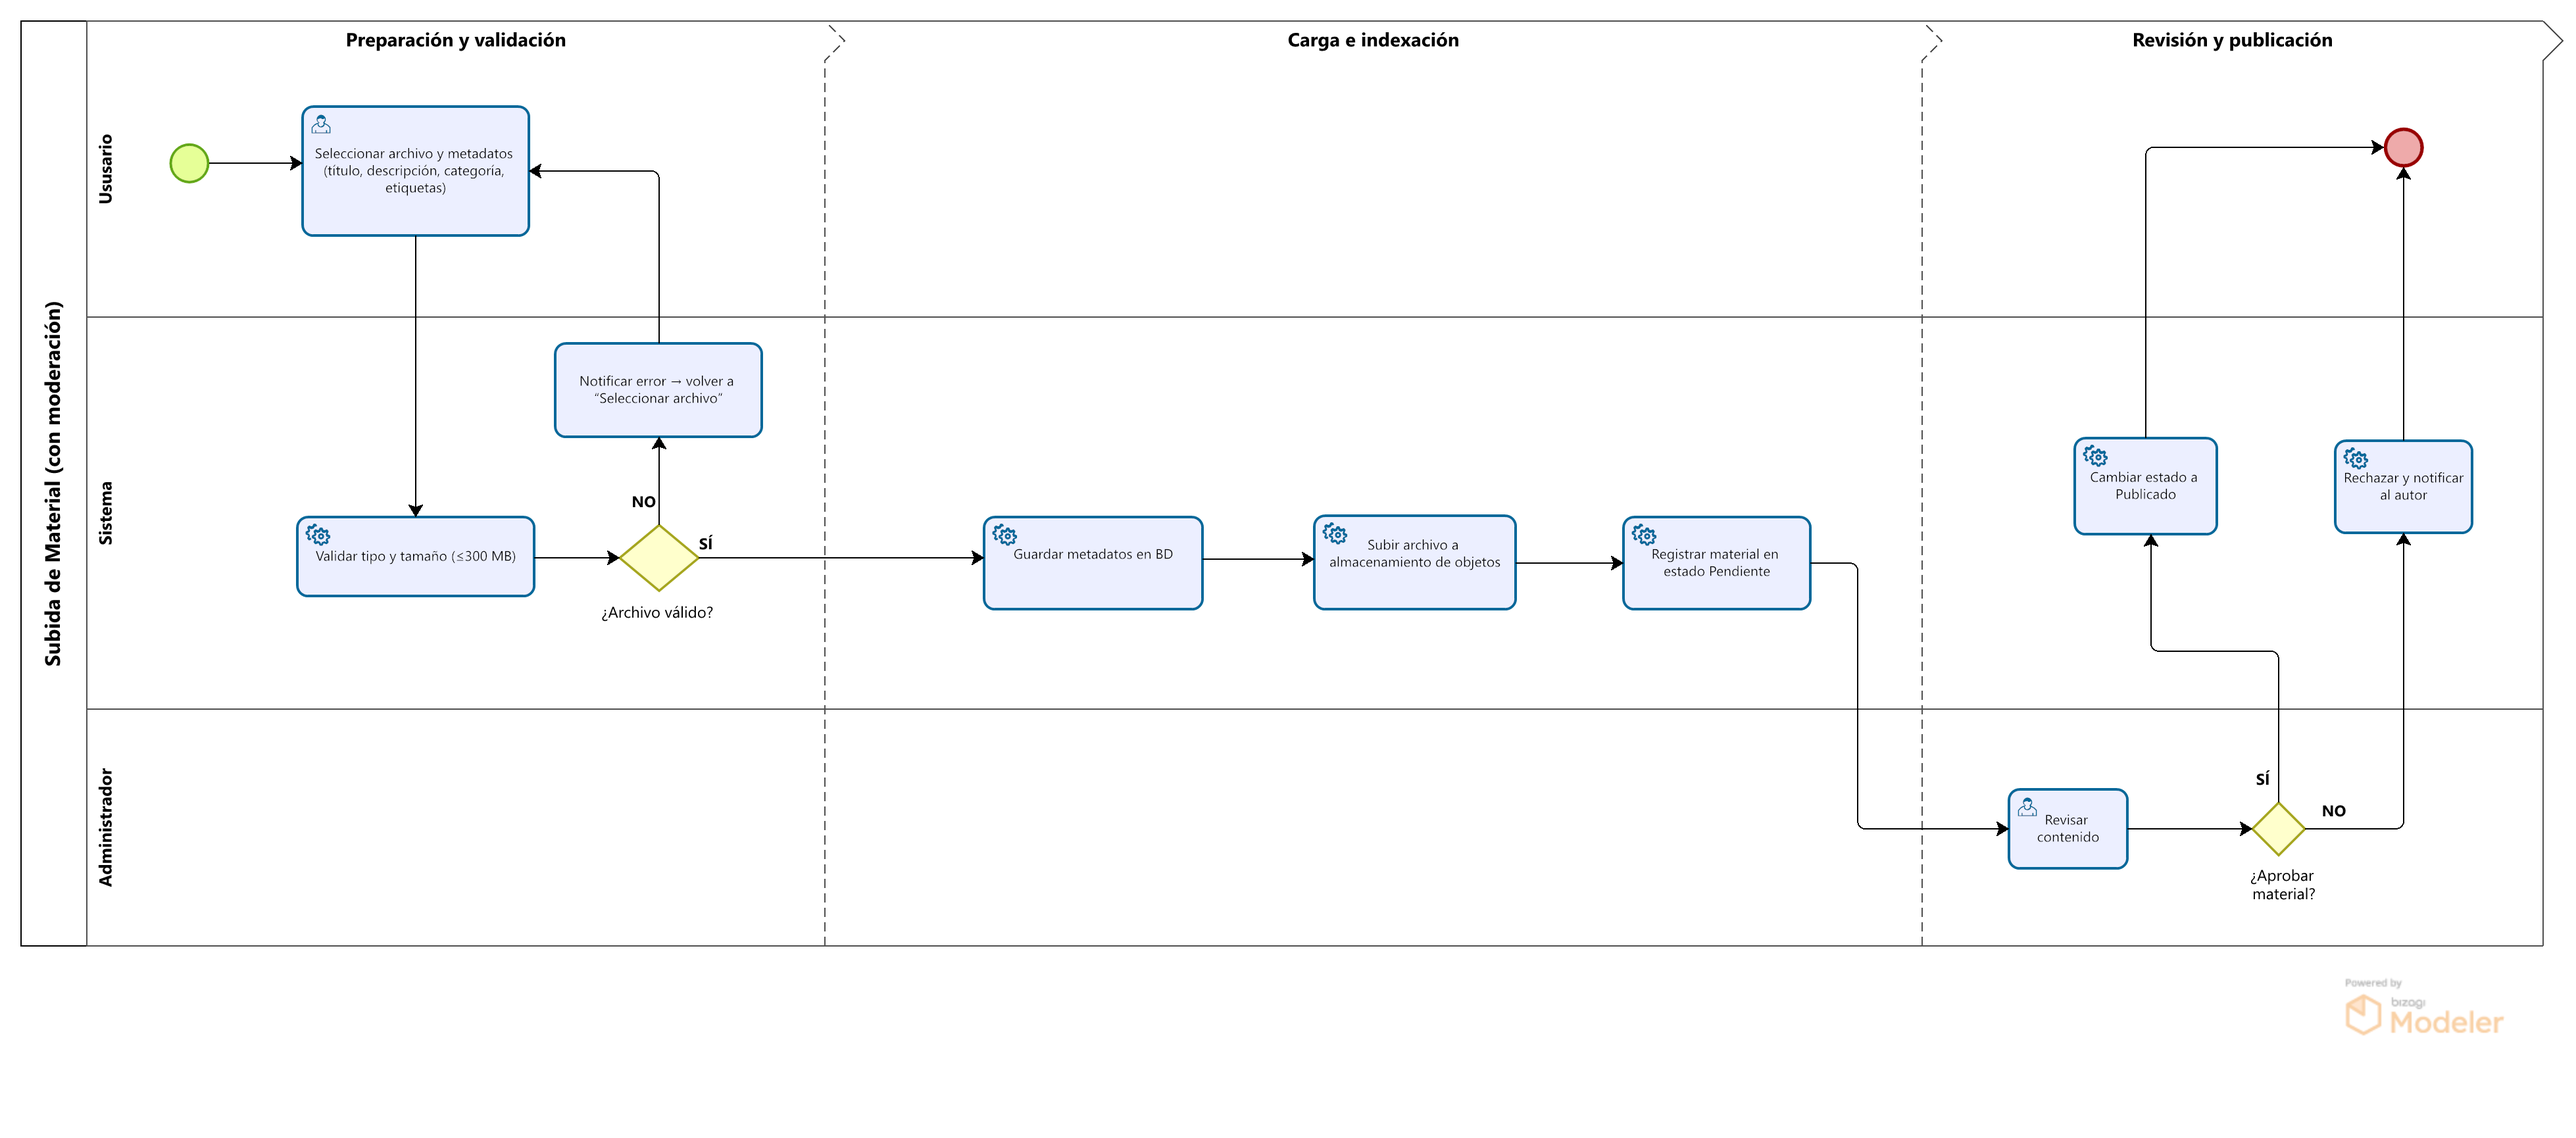
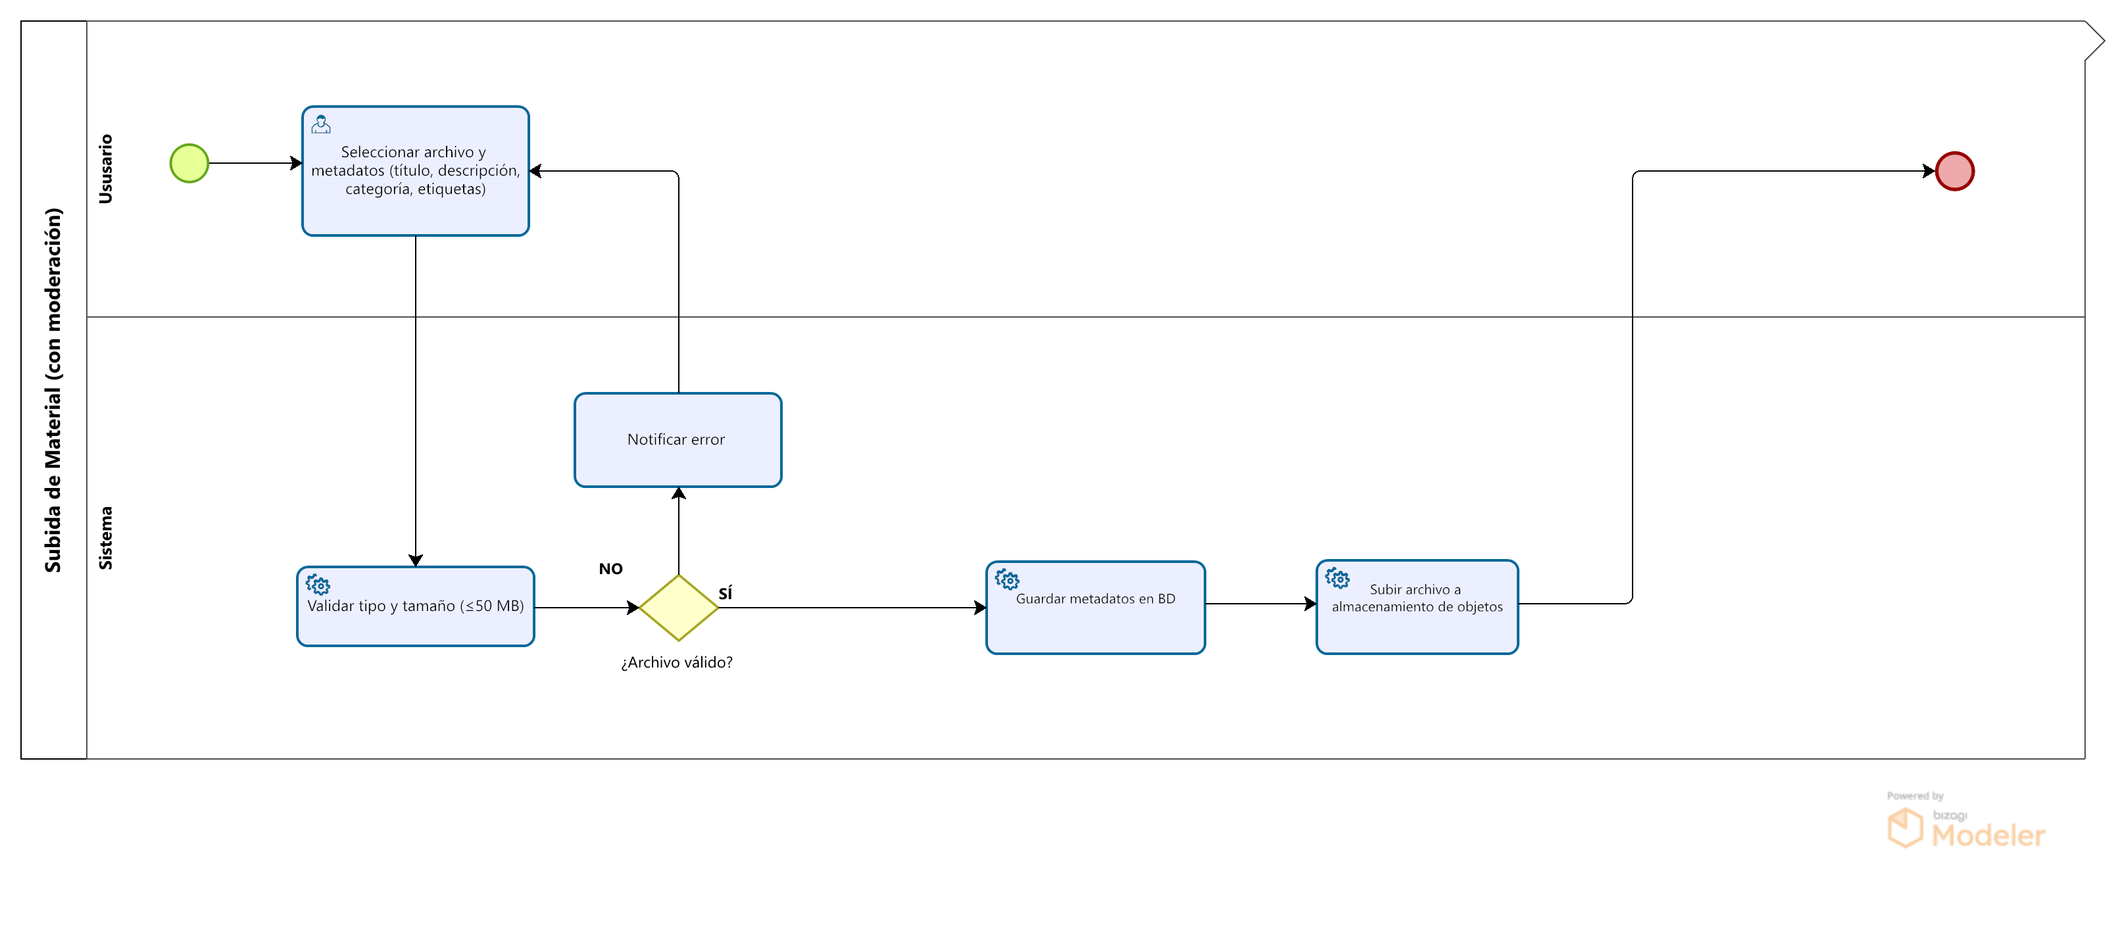
upload c/u + procesos

diff --git a/docs/guide02/fase03/casos-uso.md b/docs/guide02/fase03/casos-uso.md
@@ -27,7 +27,6 @@
 **Reglas de Negocio:**
 - RN-001: Solo se aceptan correos con dominio @unmsm.edu.pe
 - RN-002: Cada correo solo puede registrar una cuenta
-- RN-003: La verificación debe completarse en máximo 24 horas
 
 ---
 
@@ -47,9 +46,9 @@
 6. El sistema almacena el material y notifica éxito
 
 **Reglas de Negocio:**
-- RN-004: Formatos permitidos: PDF, PPTX, DOCX, XLSX, MP4
-- RN-005: Tamaño máximo por archivo: 300 MB
-- RN-006: Metadatos obligatorios: título, categoría, descripción
+- RN-003: Formatos permitidos: PDF, PPTX, DOCX, XLSX, MP4, XLS
+- RN-004: Tamaño máximo por archivo: 50 MB
+- RN-005: Metadatos obligatorios: título, categoría, descripción, carrera, semestre
 
 ---
 
@@ -69,56 +68,11 @@
 6. El archivo se descarga al dispositivo
 
 **Reglas de Negocio:**
-- RN-007: Usuarios no autenticados solo ven vista previa limitada
-- RN-008: Máximo 20 descargas por hora por usuario
-- RN-009: Se registra estadística de descargas por material
-
----
-
-### **Caso de Uso: Administrar Biblioteca Personal**
-
-**ID:** CU-004  
-**Actor:** Usuario registrado  
-**Descripción:** Gestión de materiales guardados en la biblioteca personal del usuario  
-**Precondiciones:** Usuario autenticado  
-
-**Flujo Principal:**
-1. El usuario accede a "Mi Biblioteca"
-2. Visualiza materiales guardados organizados
-3. Puede filtrar por categorías personales
-4. Puede eliminar materiales de la biblioteca
-5. Puede organizar en carpetas personalizadas
-6. El sistema guarda los cambios en tiempo real
-
-**Reglas de Negocio:**
-- RN-010: Límite de 500 materiales en biblioteca personal
-- RN-011: Los cambios se sincronizan automáticamente
-- RN-012: Se mantiene historial de materiales eliminados por 30 días
-
----
-
-### **Caso de Uso: Moderación de Contenido**
-
-**ID:** CU-005  
-**Actor:** Administrador  
-**Descripción:** Gestión y validación de contenidos subidos por usuarios  
-**Precondiciones:** Usuario con rol de administrador  
-
-**Flujo Principal:**
-1. El administrador accede al panel de moderación
-2. Revisa materiales reportados o pendientes
-3. Evalúa contenido según políticas
-4. Aprueba, rechaza o solicita modificaciones
-5. Notifica al usuario sobre la decisión
-6. Actualiza estado del material en el sistema
-
-**Reglas de Negocio:**
-- RN-013: Los materiales inapropiados se rechazan inmediatamente
-- RN-014: Los usuarios con 3 rechazos consecutivos son suspendidos
-- RN-015: Todo material debe revisarse en máximo 48 horas
+- RN-006: Se registra estadística de descargas por material
 
 ---
 
 > **Nota del Equipo ED06**: Los casos de uso documentados representan las interacciones fundamentales entre los usuarios y el sistema FisiConnect, asegurando que todos los requisitos funcionales identificados en la Guía 01 estén adecuadamente cubiertos en el diseño del sistema.
 
-*Equipo ED06 - FisiConnect*
+**Elaborado por:** Equipo ED06 - FisiConnect  
+**Fecha:** Noviembre 2025

diff --git a/docs/guide02/fase03/diagrama-procesos.md b/docs/guide02/fase03/diagrama-procesos.md
@@ -16,18 +16,19 @@ Proceso que gestiona el registro de nuevos usuarios en FisiConnect, incluyendo v
 **Descripción**:
 Proceso que especifica los pasos para la carga de nuevos materiales, incluyendo validación de formatos, metadatos obligatorios, revisión de contenido y publicación en la plataforma.
 
-### **Diagrama 03: Descarga de Materiales**
-![Proceso de Descarga de Materiales](diagrama-procesos/descarga-de-material.png)
-*Flujo de búsqueda, selección y descarga de recursos académicos*
+### **Diagrama 03: Registro + uso de la plataforma**
+![Proceso de interacción de Materiales](diagrama-procesos/registro&interaccion.png)
+*Flujo de registro, descarga y calificacion de material*
 
 **Descripción**:
-Proceso que detalla el flujo completo de búsqueda de materiales académicos, incluyendo filtros avanzados, visualización de detalles, verificación de permisos y descarga segura de archivos.
+Proceso que detalla el flujo completo registro, búsqueda de materiales académicos, incluyendo filtros avanzados, visualización de detalles, calificación de material y exploracion de recursos.
 
 ---
 
 > **Nota del Equipo ED06**: Los diagramas fueron desarrollados en Bizagi Modeler siguiendo el estándar BPMN 2.0, asegurando claridad y precisión en la representación de los procesos críticos de FisiConnect.
 
-*Equipo ED06 - FisiConnect*
+**Elaborado por:** Equipo ED06 - FisiConnect  
+**Fecha:** Noviembre 2025
 
 
 

diff --git a/docs/guide02/fase03/modelo-conceptual.md b/docs/guide02/fase03/modelo-conceptual.md
@@ -123,4 +123,5 @@ El modelo ER presentado se implementará en **PostgreSQL** con las siguientes co
 
 > **Nota del Equipo ED06**: El modelo Entidad-Relación establece los cimientos sólidos para la base de datos de FisiConnect, garantizando coherencia completa con los requisitos funcionales y casos de uso definidos. La estructura permite el crecimiento escalable del sistema mientras mantiene la integridad de los datos académicos.
 
-*Equipo ED06 - FisiConnect*
+**Elaborado por:** Equipo ED06 - FisiConnect  
+**Fecha:** Noviembre 2025

diff --git a/docs/guide02/fase03/patron.md b/docs/guide02/fase03/patron.md
@@ -30,5 +30,6 @@ Se descartaron otros patrones como Cliente-Servidor y Microservicios como enfoqu
 
 > **Nota del Equipo ED06**: La arquitectura de 3 capas proporciona el balance perfecto entre simplicidad y robustez para FisiConnect, permitiendo un desarrollo educativo eficiente mientras se mantiene la capacidad de evolucionar en el futuro.
 
-*Equipo ED06 - FisiConnect*
+**Elaborado por:** Equipo ED06 - FisiConnect  
+**Fecha:** Noviembre 2025
 
